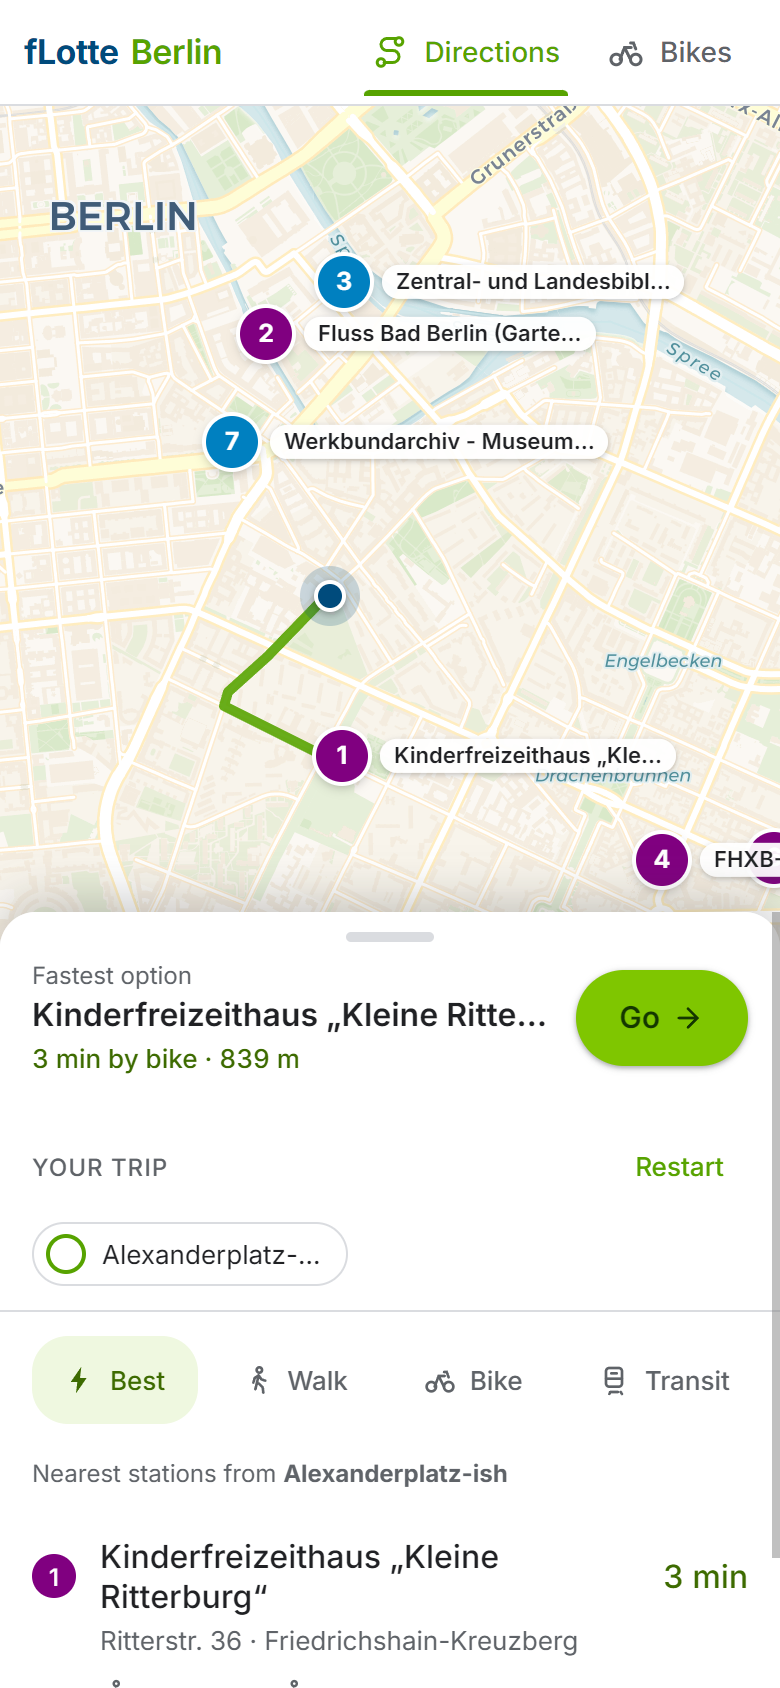
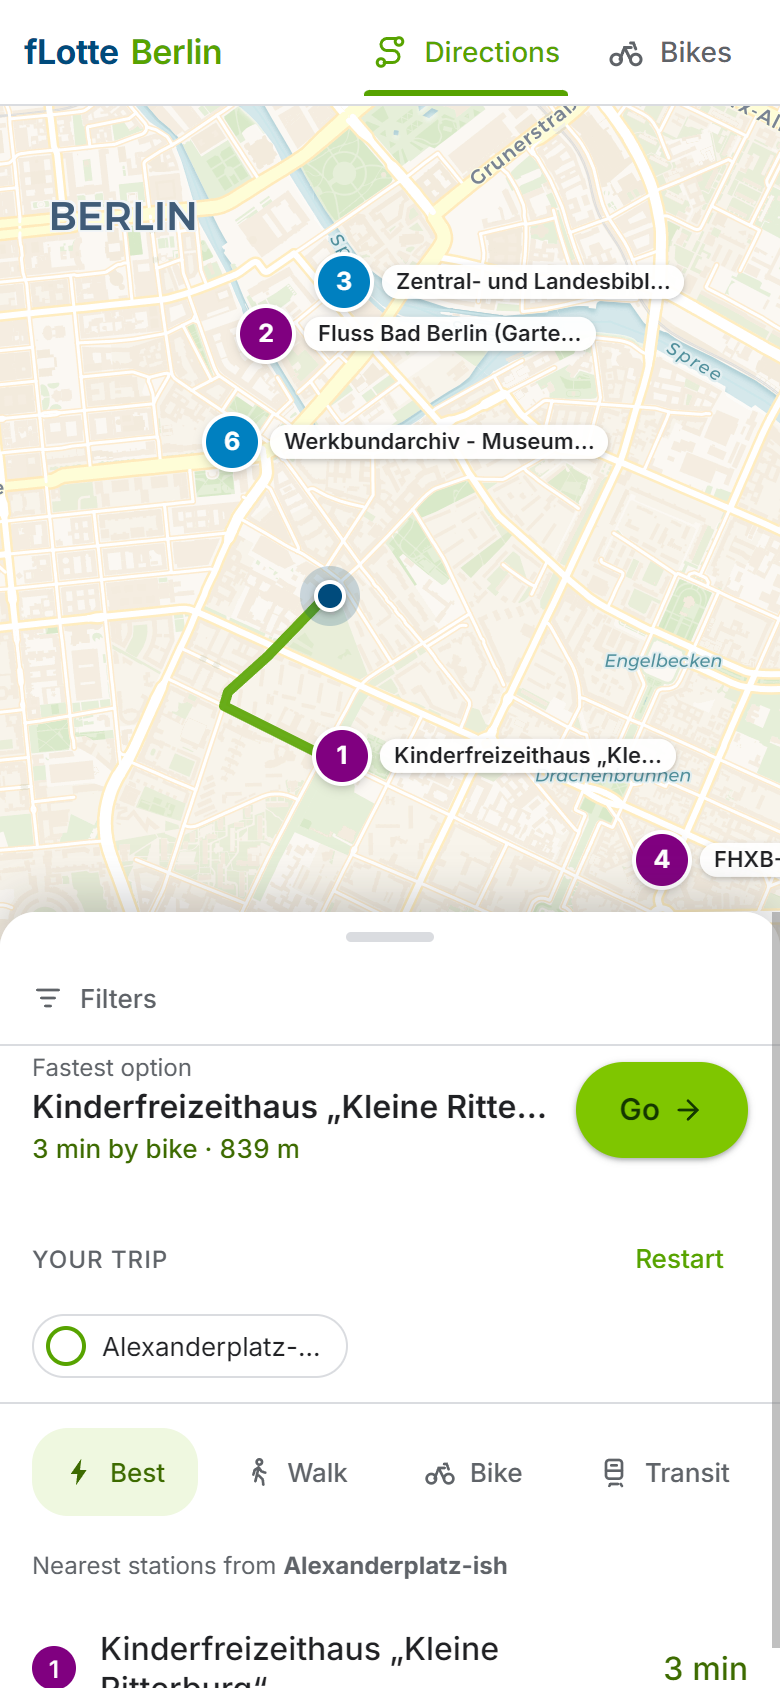
Move filters drawer to top of panel

diff --git a/index.html b/index.html
@@ -252,7 +252,7 @@ kbd{font-size:10.5px;border:1px solid var(--line);border-bottom-width:2px;border
 .tick svg{width:13px;height:13px}
 
 /* ============ filters drawer ============ */
-details.filters{margin-top:auto;border-top:1px solid var(--line);background:var(--bg)}
+details.filters{border-bottom:1px solid var(--line);background:var(--bg)}
 details.filters summary{display:flex;align-items:center;gap:8px;padding:13px 16px;
   cursor:pointer;font-size:13px;font-weight:500;color:var(--sub);list-style:none}
 details.filters summary::-webkit-details-marker{display:none}
@@ -371,7 +371,6 @@ details.filters summary svg{width:16px;height:16px}
 <div class="shell">
   <div class="panel" id="panel">
     <div class="grab" id="grab" aria-hidden="true"><i></i></div>
-    <div id="flow"></div>
     <details class="filters">
       <summary><svg viewBox="0 0 24 24" fill="none" stroke="currentColor" stroke-width="2" stroke-linecap="round"><path d="M4 6h16M7 12h10m-7 6h4"/></svg>Filters</summary>
       <div class="filter-body">
@@ -380,6 +379,7 @@ details.filters summary svg{width:16px;height:16px}
         <div id="facets"></div>
       </div>
     </details>
+    <div id="flow"></div>
   </div>
   <div id="map"></div>
 </div>

diff --git a/template.html b/template.html
@@ -252,7 +252,7 @@ kbd{font-size:10.5px;border:1px solid var(--line);border-bottom-width:2px;border
 .tick svg{width:13px;height:13px}
 
 /* ============ filters drawer ============ */
-details.filters{margin-top:auto;border-top:1px solid var(--line);background:var(--bg)}
+details.filters{border-bottom:1px solid var(--line);background:var(--bg)}
 details.filters summary{display:flex;align-items:center;gap:8px;padding:13px 16px;
   cursor:pointer;font-size:13px;font-weight:500;color:var(--sub);list-style:none}
 details.filters summary::-webkit-details-marker{display:none}
@@ -371,7 +371,6 @@ details.filters summary svg{width:16px;height:16px}
 <div class="shell">
   <div class="panel" id="panel">
     <div class="grab" id="grab" aria-hidden="true"><i></i></div>
-    <div id="flow"></div>
     <details class="filters">
       <summary><svg viewBox="0 0 24 24" fill="none" stroke="currentColor" stroke-width="2" stroke-linecap="round"><path d="M4 6h16M7 12h10m-7 6h4"/></svg>Filters</summary>
       <div class="filter-body">
@@ -380,6 +379,7 @@ details.filters summary svg{width:16px;height:16px}
         <div id="facets"></div>
       </div>
     </details>
+    <div id="flow"></div>
   </div>
   <div id="map"></div>
 </div>
